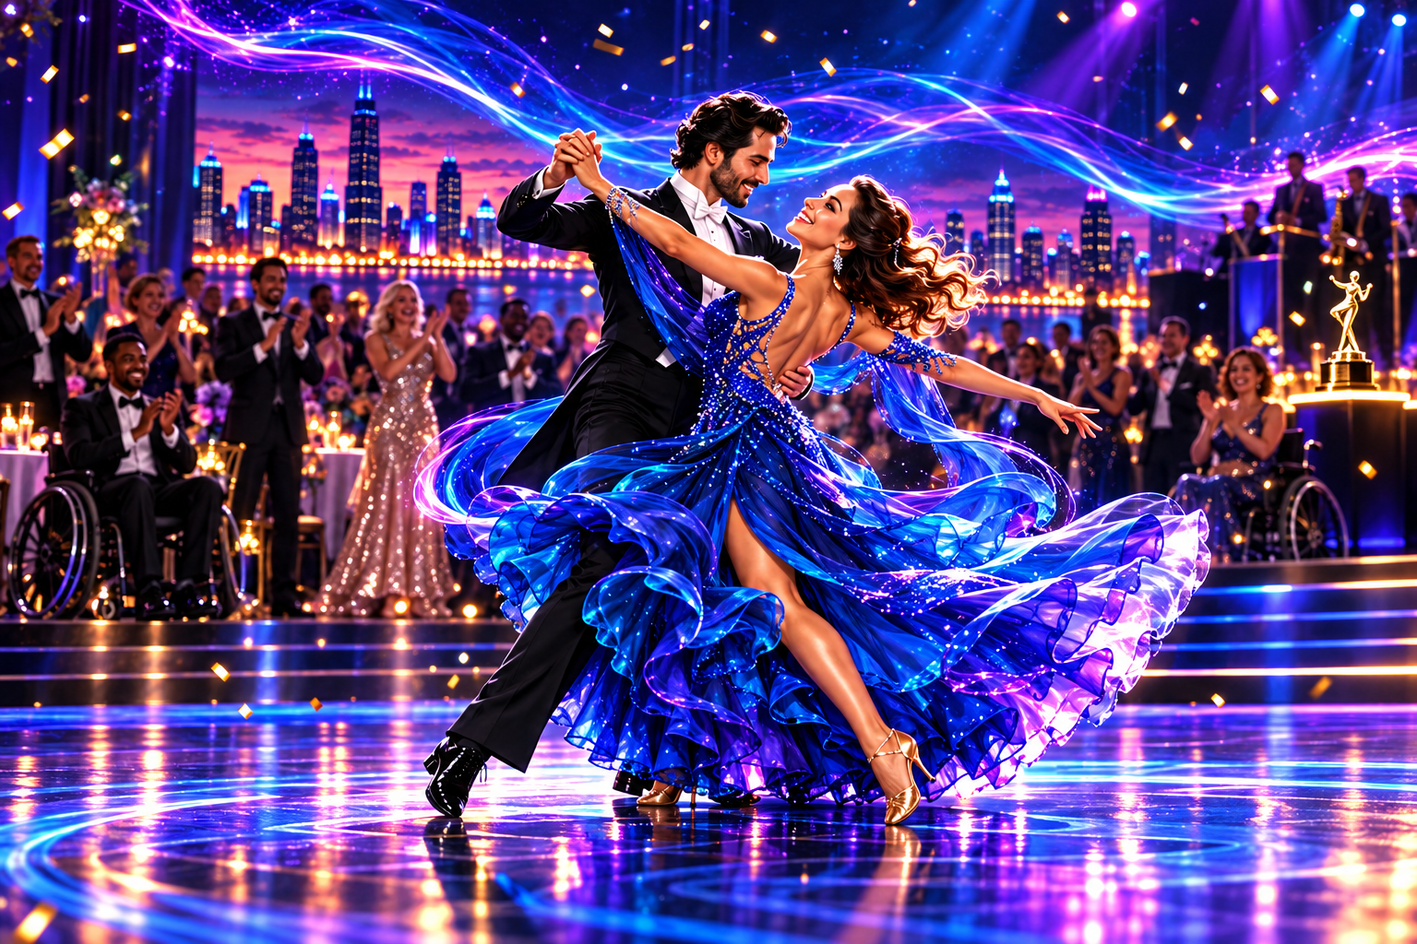
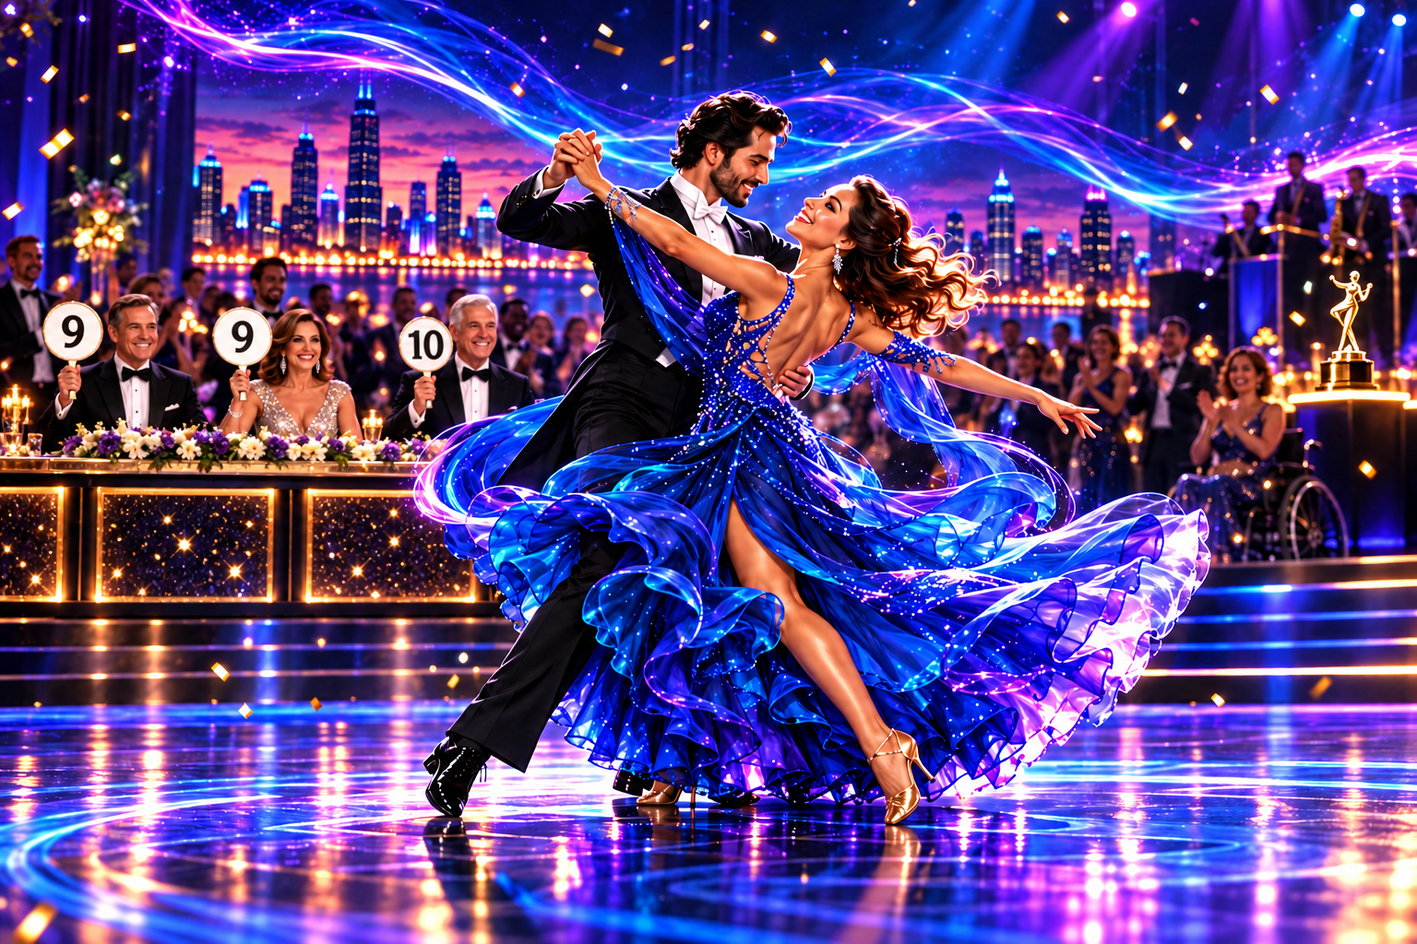
Replace section 5 competition image
Claude-Session: https://claude.ai/code/session_01SDuMShRTmDhf1bS4TY8nhA

diff --git a/how-it-works.html b/how-it-works.html
@@ -1,1 +1,1 @@
-<!doctype html><html lang="en"><head><meta charset="utf-8"><meta name="viewport" content="width=device-width,initial-scale=1"><title>How It Works · Dancing to Beat ALS</title><style>*{box-sizing:border-box}html{scroll-behavior:smooth}body{margin:0;font:15px/1.65 'Segoe UI',sans-serif}main{max-width:1220px;margin:38px auto;padding:0 28px}.eyebrow{font-size:11px;letter-spacing:2px;font-weight:750}h1{font:clamp(34px,4vw,49px)/1.15 Georgia,serif;margin:12px 0 15px;max-width:850px}.flow-intro{max-width:800px;font-size:16px;color:#64708c}.flow-nav{display:grid;grid-template-columns:repeat(6,minmax(0,1fr));gap:12px;margin:28px 0 36px}.flow-nav a{font-size:12px;color:#47529e;text-decoration:none;border:1px solid #d4d9ef;background:#fff;border-radius:8px;padding:12px;display:flex;gap:8px;align-items:center}.flow-nav span,.flow-stage-label span{display:grid;place-items:center;width:26px;height:26px;flex-shrink:0;border-radius:50%;background:#ebeafd;color:#5543ad;font-weight:750}.flow-stage{display:grid;grid-template-columns:1fr 1.15fr;gap:36px;align-items:center;margin:25px 0 45px;padding-bottom:40px;border-bottom:1px solid #dce1f1;scroll-margin-top:20px}.flow-stage:nth-of-type(even) .flow-art{order:2}.flow-art{border-radius:13px;overflow:hidden;background:#101b3c;box-shadow:0 12px 35px #25346b18;line-height:0}.flow-art img{width:100%;aspect-ratio:3/2;object-fit:cover;display:block}.flow-stage-label{display:flex;align-items:center;gap:10px;font-size:11px;text-transform:uppercase;letter-spacing:1.3px;font-weight:750;color:#6543b2}.flow-copy h2{font:30px/1.2 Georgia,serif;margin:12px 0}.flow-copy p,.flow-copy li{font-size:14px;color:#52617e}.flow-copy ul{padding-left:20px}.flow-copy li{margin:7px 0}.flow-copy .flow-small{font-size:12px;color:#64708c}.flow-link{font-weight:650;font-size:13px}.proposal{display:inline-block;background:#f5ecfa;color:#674186!important;border:1px solid #e5d6ef;padding:5px 10px;border-radius:6px;font-size:11px!important}.flow-cta{padding:26px;border-radius:12px;background:linear-gradient(110deg,#15275c,#55318e);color:white;margin:25px 0}.flow-cta h2{color:white;font:29px Georgia,serif;margin:0 0 12px}.flow-cta a{display:inline-block;background:#fff;color:#3449a9;text-decoration:none;border-radius:6px;padding:10px 18px;font-size:13px;font-weight:650;margin:5px 10px 5px 0}footer{font-size:11px;color:#64708c;margin:25px 0}@media(max-width:850px){.flow-nav{grid-template-columns:repeat(2,1fr)}.flow-stage{grid-template-columns:1fr;gap:22px}.flow-stage:nth-of-type(even) .flow-art{order:0}.flow-art img{max-height:370px}.flow-copy h2{font-size:27px}}@media(prefers-reduced-motion:reduce){html{scroll-behavior:auto}}.showcase-panel{display:grid;grid-template-columns:1.4fr 1fr;gap:28px;align-items:center;padding:25px;border:1px solid #d1d7ef;background:linear-gradient(125deg,#edf1ff,#f6edfc);border-radius:14px;margin:15px 0 45px}.showcase-image{border-radius:10px;overflow:hidden;line-height:0;box-shadow:0 10px 30px #25346b18}.showcase-image img{width:100%;height:auto;display:block}.showcase-copy h2{font:30px/1.2 Georgia,serif;margin:12px 0}.showcase-copy>p{font-size:14px;color:#52617e}.showcase-copy .flow-small{font-size:11px;color:#64708c}.showcase-copy .eyebrow{font-size:10px}.showcase-screen{background:#101c49;color:#fff;border-radius:8px;padding:16px;margin-top:16px}.showcase-screen span{display:block;font-size:10px;text-transform:uppercase;letter-spacing:1px;color:#b4c7ff}.showcase-screen strong{display:block;font:23px Georgia,serif;margin:5px 0}.showcase-screen p{font-size:12px;color:#e1e7ff;margin:5px 0}@media(max-width:850px){.showcase-panel{grid-template-columns:1fr;padding:18px}}</style><link rel="stylesheet" href="theme.css?v=electric-palette-v3"><link rel="stylesheet" href="tickets.css?v=2"><script src="review-data.js"></script></head><body><header><img class="event-banner" src="event-header.png?v=panoramic-v2" alt="Dancing to Beat ALS — ballroom couple with electric blue and purple light trails and a glowing city skyline"><div class="header-bar"><div class="brand">DANCING TO BEAT ALS<small>MOVE TOGETHER. MAKE A DIFFERENCE.</small></div><a href="home.html">Home</a><a href="registration.html">Register a Team</a><a href="donate.html">Donate</a><a href="faq.html">FAQ</a><a href="tickets.html">Tickets &amp; Tables</a></div></header><main><div class="eyebrow">FROM YOUR FIRST FUNDRAISER TO THE FINAL BOW.</div><h1>A shared purpose.<br>A journey to the dance floor.</h1><p class="flow-intro">Dancing to Beat ALS starts long before gala night. Follow the journey from building a team and rallying supporters to preparing finalists, celebrating together, and ending the night on the dance floor.</p><nav class="flow-nav" aria-label="Event stages"><a href="#fundraising"><span>1</span>Team fundraising</a><a href="#selection"><span>2</span>Finalist selection</a><a href="#training"><span>3</span>Finalist training</a><a href="#gala"><span>4</span>Dancing to Beat ALS Gala</a><a href="#competition"><span>5</span>Dance competition &amp; awards</a><a href="#dance-party"><span>6</span>Group lesson &amp; dance party</a></nav><section class="flow-stage" id="fundraising"><div class="flow-art"><img src="flow-fundraising.png" alt="Team members gathering around a laptop to rally support for their ALS fundraiser" loading="lazy"></div><div class="flow-copy"><div class="flow-stage-label"><span>1</span>Team fundraising</div><h2>Pick your beneficiary. Form your team. Rally your people.</h2><p>Choose your Team Sponsor, introduce your dancing candidate, and select an ALS beneficiary. Set your fundraising goal and invite friends, family, colleagues, and your wider community to get involved.</p><ul><li>Your sponsor determines your division: Enterprise, Discovery, Reach, or Grassroots.</li><li>Choose Team Entry or the Team &amp; Gala Package where available.</li><li>Team-raised gifts are designated to support the team’s chosen ALS beneficiary and are granted under the Foundation’s grant policy. Any fees will be disclosed before launch. Dance Card fees and table upgrades do not count toward fundraising.</li></ul><a class="flow-link" href="registration.html">Start your team →</a></div></section><section class="flow-stage" id="selection"><div class="flow-art"><img src="flow-selection.png" alt="Team representatives being recognized as finalists under dramatic blue stage lights" loading="lazy"></div><div class="flow-copy"><div class="flow-stage-label"><span>2</span>Finalist selection</div><h2>Eight dancers head to the floor.</h2><p>After 12 weeks of fundraising, eight teams are chosen as finalists. Each team’s dancer partners with a professional and competes in the gala-night ballroom competition.</p><ul><li>4 Division Champions</li><li>3 Draw winners</li><li>1 Catalyst’s Choice</li></ul><p class="proposal">Proposed format · pending confirmation and legal review</p><a class="flow-link" href="faq.html">Explore selection questions →</a></div></section><section class="flow-stage" id="training"><div class="flow-art"><img src="flow-training.png" alt="A coach helping dancers rehearse, with inclusive partner practice in the background" loading="lazy"></div><div class="flow-copy"><div class="flow-stage-label"><span>3</span>Finalist training</div><h2>Turn a little courage into confidence.</h2><p>Selected finalists move into a preparation phase before gala night. The planned training experience helps dancers develop a routine, build confidence, and prepare to perform.</p><p class="proposal">Training arrangements to be announced</p><p>Coaching, rehearsal schedules, partner arrangements, accessibility accommodations, and performance requirements will be confirmed by the organizers. No previous dance experience is required to nominate a candidate.</p><p class="flow-small">The intent is a supportive experience that welcomes different abilities and levels of dance experience.</p></div></section><section class="flow-stage" id="gala"><div class="flow-art"><img src="flow-gala.png" alt="An elegant blue-and-violet charity gala ballroom with round tables and city lights" loading="lazy"></div><div class="flow-copy"><div class="flow-stage-label"><span>4</span>Dancing to Beat ALS Gala</div><h2>One evening. A community in motion.</h2><p>Come together for the celebration: supporters, teams, beneficiaries, and finalists sharing an evening centered on the ALS community and the people taking the floor.</p><ul><li>Team &amp; Gala Packages include reserved gala seats; Enterprise includes a table.</li><li>All teams present will hit the dance floor in the Grand Promenade, the showcase group dance (24 teams), or the competition (8 teams).</li><li>A livestream of the gala is planned.</li></ul><p class="flow-small">Event date, venue, running order, and showcase format will be announced. No gala seats are reserved by this mockup.</p><a class="flow-link" href="faq.html">Read about gala seating →</a></div></section><section class="showcase-panel" id="on-the-dance-floor"><div class="showcase-image"><a href="flow-showcase.png" target="_blank" rel="noopener" aria-label="View the gala dance-floor illustration at full size"><img src="flow-showcase.png" loading="lazy" alt="Gala group number with two featured couples in the center, surrounding dancers, a team spotlight screen above the stage, and television cameras around the floor"></a></div><div class="showcase-copy"><div class="eyebrow">ON THE DANCE FLOOR · ON THE NATIONAL STAGE</div><h2>Every team has a moment.</h2><p>A group number brings the floor to life, while featured couples take center stage. The screen tells the story behind the dance: the team, the dancer, the beneficiary, and the funds raised.</p><p>We’re planning a livestream so supporters everywhere can share the performances and the energy of the gala.</p><div class="showcase-screen"><span>Illustrative team spotlight</span><strong>Hope in Motion</strong><p>Dancer: Maya Bennett<br>Beneficiary: ALS Catalyst Foundation<br>Amount raised: $27,500</p></div><p class="flow-small">Fictitious team and fundraising amount shown for illustration. Production, choreography, and the final running order will be confirmed.</p></div></section><section class="flow-stage" id="competition"><div class="flow-art"><img src="flow-competition.png" alt="A ballroom dance performance and applauding gala audience at the competition finale" loading="lazy"></div><div class="flow-copy"><div class="flow-stage-label"><span>5</span>Dance competition & awards</div><h2>Celebrate the stories behind every step.</h2><p>The finalists’ performances bring the journey to its finale. The dance floor becomes a place to celebrate courage, community, and the fundraising impact behind each team.</p><p>Judges will include Allen Genkin, who competed on <em>Dancing with the Stars: The Next Pro</em>.</p><p class="proposal">More judges and competition details to be announced</p><a class="flow-link" href="faq.html">Competition questions →</a></div></section><section class="flow-stage" id="dance-party"><div class="flow-art"><img src="flow-dance-party.png" alt="Dance instructors leading smiling gala guests in loose lines through a fun group dance lesson, with guests in varied going-out attire" loading="lazy"></div><div class="flow-copy"><div class="flow-stage-label"><span>6</span>Group dance lesson &amp; dance party</div><h2>The night ends with everyone dancing.</h2><p>Now it’s your turn. A planned group dance lesson gets everyone moving, then the celebration keeps going with a dance party for all guests.</p><ul><li>Learn a few easy steps together, then make them your own.</li><li>Some guests will follow every move. Some will find their own rhythm. Everyone can enjoy the moment.</li><li>From cocktail dresses to shirtsleeves, the floor fills with gala guests smiling, laughing, and dancing together.</li></ul><p class="flow-small">No dance experience required. The final music, lesson format, accessibility arrangements, and timing will be confirmed. Image is an illustrative event visualization.</p><a class="flow-link" href="registration.html">Be part of the celebration →</a></div></section><section class="flow-cta"><h2>Ready to make your move?</h2><a href="tickets.html" data-open-tickets>Purchase Tickets →</a><a href="registration.html">Register a Team →</a><a href="donate.html">Make a Donation →</a><a href="faq.html">Frequently Asked Questions →</a></section><footer>Event overview · Unconfirmed dates, training arrangements, and proposed competition rules will be updated as details are finalized. Local mockup payments and emails are simulated.</footer></main><script src="tickets.js?v=3" defer></script><p style="text-align:center;padding:12px;font:12px sans-serif">Committee review mockup · Payments and emails are simulated. Test registrations stay in this browser.</p></body></html>
+<!doctype html><html lang="en"><head><meta charset="utf-8"><meta name="viewport" content="width=device-width,initial-scale=1"><title>How It Works · Dancing to Beat ALS</title><style>*{box-sizing:border-box}html{scroll-behavior:smooth}body{margin:0;font:15px/1.65 'Segoe UI',sans-serif}main{max-width:1220px;margin:38px auto;padding:0 28px}.eyebrow{font-size:11px;letter-spacing:2px;font-weight:750}h1{font:clamp(34px,4vw,49px)/1.15 Georgia,serif;margin:12px 0 15px;max-width:850px}.flow-intro{max-width:800px;font-size:16px;color:#64708c}.flow-nav{display:grid;grid-template-columns:repeat(6,minmax(0,1fr));gap:12px;margin:28px 0 36px}.flow-nav a{font-size:12px;color:#47529e;text-decoration:none;border:1px solid #d4d9ef;background:#fff;border-radius:8px;padding:12px;display:flex;gap:8px;align-items:center}.flow-nav span,.flow-stage-label span{display:grid;place-items:center;width:26px;height:26px;flex-shrink:0;border-radius:50%;background:#ebeafd;color:#5543ad;font-weight:750}.flow-stage{display:grid;grid-template-columns:1fr 1.15fr;gap:36px;align-items:center;margin:25px 0 45px;padding-bottom:40px;border-bottom:1px solid #dce1f1;scroll-margin-top:20px}.flow-stage:nth-of-type(even) .flow-art{order:2}.flow-art{border-radius:13px;overflow:hidden;background:#101b3c;box-shadow:0 12px 35px #25346b18;line-height:0}.flow-art img{width:100%;aspect-ratio:3/2;object-fit:cover;display:block}.flow-stage-label{display:flex;align-items:center;gap:10px;font-size:11px;text-transform:uppercase;letter-spacing:1.3px;font-weight:750;color:#6543b2}.flow-copy h2{font:30px/1.2 Georgia,serif;margin:12px 0}.flow-copy p,.flow-copy li{font-size:14px;color:#52617e}.flow-copy ul{padding-left:20px}.flow-copy li{margin:7px 0}.flow-copy .flow-small{font-size:12px;color:#64708c}.flow-link{font-weight:650;font-size:13px}.proposal{display:inline-block;background:#f5ecfa;color:#674186!important;border:1px solid #e5d6ef;padding:5px 10px;border-radius:6px;font-size:11px!important}.flow-cta{padding:26px;border-radius:12px;background:linear-gradient(110deg,#15275c,#55318e);color:white;margin:25px 0}.flow-cta h2{color:white;font:29px Georgia,serif;margin:0 0 12px}.flow-cta a{display:inline-block;background:#fff;color:#3449a9;text-decoration:none;border-radius:6px;padding:10px 18px;font-size:13px;font-weight:650;margin:5px 10px 5px 0}footer{font-size:11px;color:#64708c;margin:25px 0}@media(max-width:850px){.flow-nav{grid-template-columns:repeat(2,1fr)}.flow-stage{grid-template-columns:1fr;gap:22px}.flow-stage:nth-of-type(even) .flow-art{order:0}.flow-art img{max-height:370px}.flow-copy h2{font-size:27px}}@media(prefers-reduced-motion:reduce){html{scroll-behavior:auto}}.showcase-panel{display:grid;grid-template-columns:1.4fr 1fr;gap:28px;align-items:center;padding:25px;border:1px solid #d1d7ef;background:linear-gradient(125deg,#edf1ff,#f6edfc);border-radius:14px;margin:15px 0 45px}.showcase-image{border-radius:10px;overflow:hidden;line-height:0;box-shadow:0 10px 30px #25346b18}.showcase-image img{width:100%;height:auto;display:block}.showcase-copy h2{font:30px/1.2 Georgia,serif;margin:12px 0}.showcase-copy>p{font-size:14px;color:#52617e}.showcase-copy .flow-small{font-size:11px;color:#64708c}.showcase-copy .eyebrow{font-size:10px}.showcase-screen{background:#101c49;color:#fff;border-radius:8px;padding:16px;margin-top:16px}.showcase-screen span{display:block;font-size:10px;text-transform:uppercase;letter-spacing:1px;color:#b4c7ff}.showcase-screen strong{display:block;font:23px Georgia,serif;margin:5px 0}.showcase-screen p{font-size:12px;color:#e1e7ff;margin:5px 0}@media(max-width:850px){.showcase-panel{grid-template-columns:1fr;padding:18px}}</style><link rel="stylesheet" href="theme.css?v=electric-palette-v3"><link rel="stylesheet" href="tickets.css?v=2"><script src="review-data.js"></script></head><body><header><img class="event-banner" src="event-header.png?v=panoramic-v2" alt="Dancing to Beat ALS — ballroom couple with electric blue and purple light trails and a glowing city skyline"><div class="header-bar"><div class="brand">DANCING TO BEAT ALS<small>MOVE TOGETHER. MAKE A DIFFERENCE.</small></div><a href="home.html">Home</a><a href="registration.html">Register a Team</a><a href="donate.html">Donate</a><a href="faq.html">FAQ</a><a href="tickets.html">Tickets &amp; Tables</a></div></header><main><div class="eyebrow">FROM YOUR FIRST FUNDRAISER TO THE FINAL BOW.</div><h1>A shared purpose.<br>A journey to the dance floor.</h1><p class="flow-intro">Dancing to Beat ALS starts long before gala night. Follow the journey from building a team and rallying supporters to preparing finalists, celebrating together, and ending the night on the dance floor.</p><nav class="flow-nav" aria-label="Event stages"><a href="#fundraising"><span>1</span>Team fundraising</a><a href="#selection"><span>2</span>Finalist selection</a><a href="#training"><span>3</span>Finalist training</a><a href="#gala"><span>4</span>Dancing to Beat ALS Gala</a><a href="#competition"><span>5</span>Dance competition &amp; awards</a><a href="#dance-party"><span>6</span>Group lesson &amp; dance party</a></nav><section class="flow-stage" id="fundraising"><div class="flow-art"><img src="flow-fundraising.png" alt="Team members gathering around a laptop to rally support for their ALS fundraiser" loading="lazy"></div><div class="flow-copy"><div class="flow-stage-label"><span>1</span>Team fundraising</div><h2>Pick your beneficiary. Form your team. Rally your people.</h2><p>Choose your Team Sponsor, introduce your dancing candidate, and select an ALS beneficiary. Set your fundraising goal and invite friends, family, colleagues, and your wider community to get involved.</p><ul><li>Your sponsor determines your division: Enterprise, Discovery, Reach, or Grassroots.</li><li>Choose Team Entry or the Team &amp; Gala Package where available.</li><li>Team-raised gifts are designated to support the team’s chosen ALS beneficiary and are granted under the Foundation’s grant policy. Any fees will be disclosed before launch. Dance Card fees and table upgrades do not count toward fundraising.</li></ul><a class="flow-link" href="registration.html">Start your team →</a></div></section><section class="flow-stage" id="selection"><div class="flow-art"><img src="flow-selection.png" alt="Team representatives being recognized as finalists under dramatic blue stage lights" loading="lazy"></div><div class="flow-copy"><div class="flow-stage-label"><span>2</span>Finalist selection</div><h2>Eight dancers head to the floor.</h2><p>After 12 weeks of fundraising, eight teams are chosen as finalists. Each team’s dancer partners with a professional and competes in the gala-night ballroom competition.</p><ul><li>4 Division Champions</li><li>3 Draw winners</li><li>1 Catalyst’s Choice</li></ul><p class="proposal">Proposed format · pending confirmation and legal review</p><a class="flow-link" href="faq.html">Explore selection questions →</a></div></section><section class="flow-stage" id="training"><div class="flow-art"><img src="flow-training.png" alt="A coach helping dancers rehearse, with inclusive partner practice in the background" loading="lazy"></div><div class="flow-copy"><div class="flow-stage-label"><span>3</span>Finalist training</div><h2>Turn a little courage into confidence.</h2><p>Selected finalists move into a preparation phase before gala night. The planned training experience helps dancers develop a routine, build confidence, and prepare to perform.</p><p class="proposal">Training arrangements to be announced</p><p>Coaching, rehearsal schedules, partner arrangements, accessibility accommodations, and performance requirements will be confirmed by the organizers. No previous dance experience is required to nominate a candidate.</p><p class="flow-small">The intent is a supportive experience that welcomes different abilities and levels of dance experience.</p></div></section><section class="flow-stage" id="gala"><div class="flow-art"><img src="flow-gala.png" alt="An elegant blue-and-violet charity gala ballroom with round tables and city lights" loading="lazy"></div><div class="flow-copy"><div class="flow-stage-label"><span>4</span>Dancing to Beat ALS Gala</div><h2>One evening. A community in motion.</h2><p>Come together for the celebration: supporters, teams, beneficiaries, and finalists sharing an evening centered on the ALS community and the people taking the floor.</p><ul><li>Team &amp; Gala Packages include reserved gala seats; Enterprise includes a table.</li><li>All teams present will hit the dance floor in the Grand Promenade, the showcase group dance (24 teams), or the competition (8 teams).</li><li>A livestream of the gala is planned.</li></ul><p class="flow-small">Event date, venue, running order, and showcase format will be announced. No gala seats are reserved by this mockup.</p><a class="flow-link" href="faq.html">Read about gala seating →</a></div></section><section class="showcase-panel" id="on-the-dance-floor"><div class="showcase-image"><a href="flow-showcase.png" target="_blank" rel="noopener" aria-label="View the gala dance-floor illustration at full size"><img src="flow-showcase.png" loading="lazy" alt="Gala group number with two featured couples in the center, surrounding dancers, a team spotlight screen above the stage, and television cameras around the floor"></a></div><div class="showcase-copy"><div class="eyebrow">ON THE DANCE FLOOR · ON THE NATIONAL STAGE</div><h2>Every team has a moment.</h2><p>A group number brings the floor to life, while featured couples take center stage. The screen tells the story behind the dance: the team, the dancer, the beneficiary, and the funds raised.</p><p>We’re planning a livestream so supporters everywhere can share the performances and the energy of the gala.</p><div class="showcase-screen"><span>Illustrative team spotlight</span><strong>Hope in Motion</strong><p>Dancer: Maya Bennett<br>Beneficiary: ALS Catalyst Foundation<br>Amount raised: $27,500</p></div><p class="flow-small">Fictitious team and fundraising amount shown for illustration. Production, choreography, and the final running order will be confirmed.</p></div></section><section class="flow-stage" id="competition"><div class="flow-art"><img src="flow-competition.png?v=2" alt="A ballroom couple dancing under blue and purple lights while judges hold up score paddles and the gala audience applauds" loading="lazy"></div><div class="flow-copy"><div class="flow-stage-label"><span>5</span>Dance competition & awards</div><h2>Celebrate the stories behind every step.</h2><p>The finalists’ performances bring the journey to its finale. The dance floor becomes a place to celebrate courage, community, and the fundraising impact behind each team.</p><p>Judges will include Allen Genkin, who competed on <em>Dancing with the Stars: The Next Pro</em>.</p><p class="proposal">More judges and competition details to be announced</p><a class="flow-link" href="faq.html">Competition questions →</a></div></section><section class="flow-stage" id="dance-party"><div class="flow-art"><img src="flow-dance-party.png" alt="Dance instructors leading smiling gala guests in loose lines through a fun group dance lesson, with guests in varied going-out attire" loading="lazy"></div><div class="flow-copy"><div class="flow-stage-label"><span>6</span>Group dance lesson &amp; dance party</div><h2>The night ends with everyone dancing.</h2><p>Now it’s your turn. A planned group dance lesson gets everyone moving, then the celebration keeps going with a dance party for all guests.</p><ul><li>Learn a few easy steps together, then make them your own.</li><li>Some guests will follow every move. Some will find their own rhythm. Everyone can enjoy the moment.</li><li>From cocktail dresses to shirtsleeves, the floor fills with gala guests smiling, laughing, and dancing together.</li></ul><p class="flow-small">No dance experience required. The final music, lesson format, accessibility arrangements, and timing will be confirmed. Image is an illustrative event visualization.</p><a class="flow-link" href="registration.html">Be part of the celebration →</a></div></section><section class="flow-cta"><h2>Ready to make your move?</h2><a href="tickets.html" data-open-tickets>Purchase Tickets →</a><a href="registration.html">Register a Team →</a><a href="donate.html">Make a Donation →</a><a href="faq.html">Frequently Asked Questions →</a></section><footer>Event overview · Unconfirmed dates, training arrangements, and proposed competition rules will be updated as details are finalized. Local mockup payments and emails are simulated.</footer></main><script src="tickets.js?v=3" defer></script><p style="text-align:center;padding:12px;font:12px sans-serif">Committee review mockup · Payments and emails are simulated. Test registrations stay in this browser.</p></body></html>
